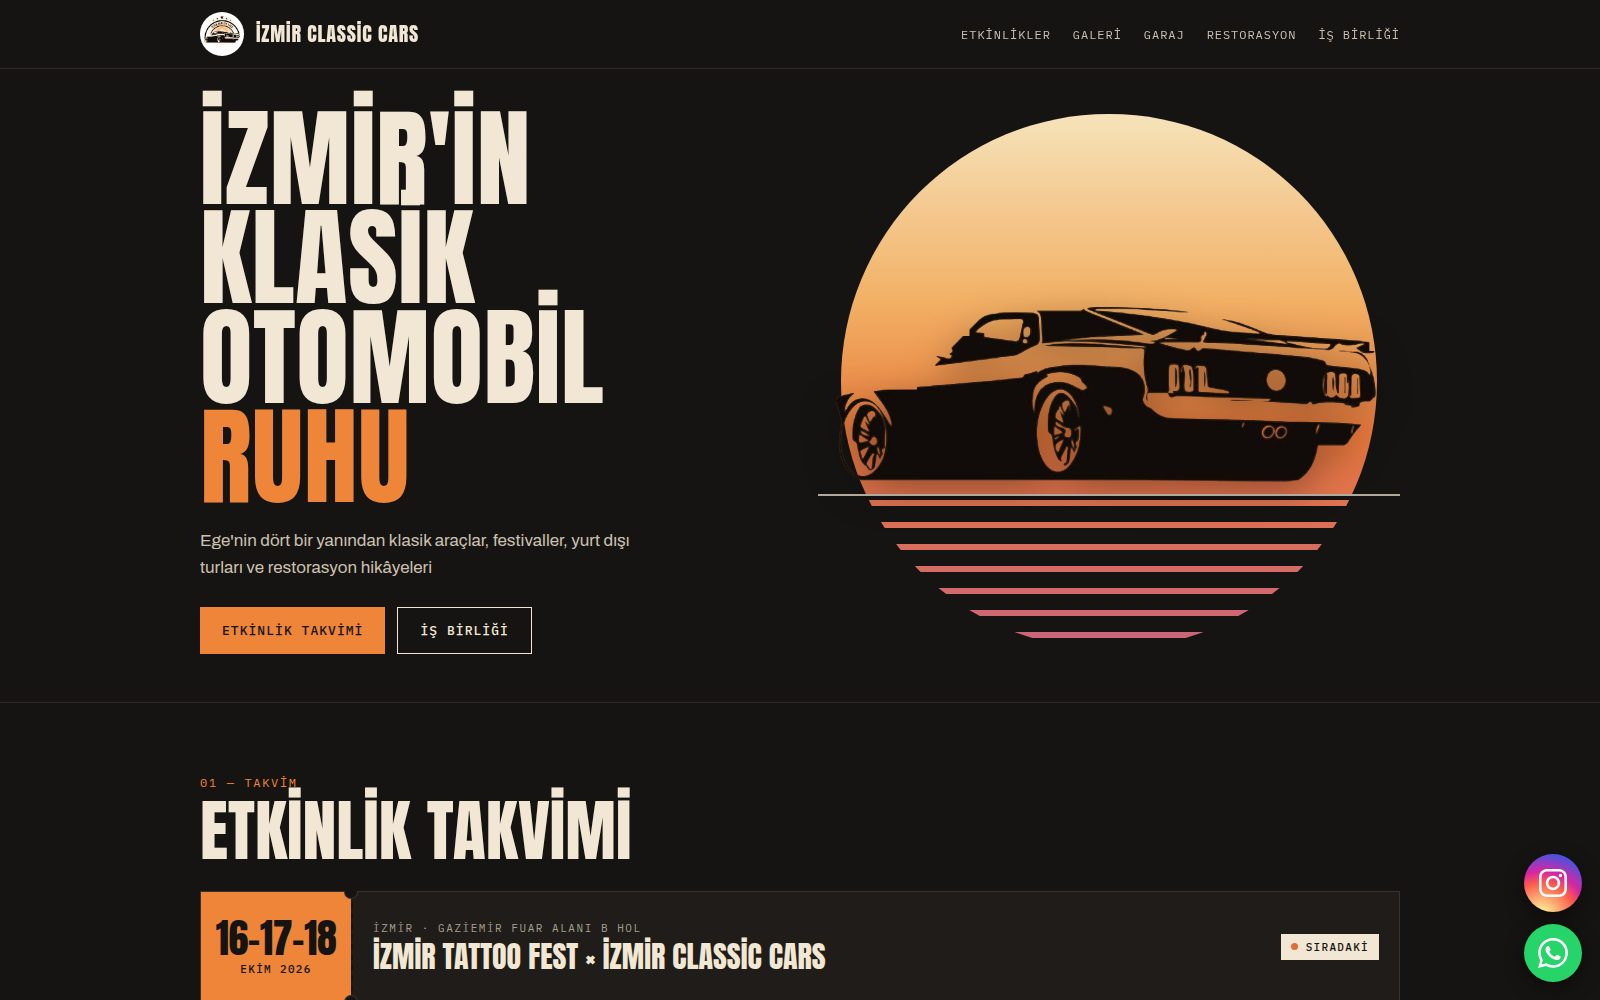
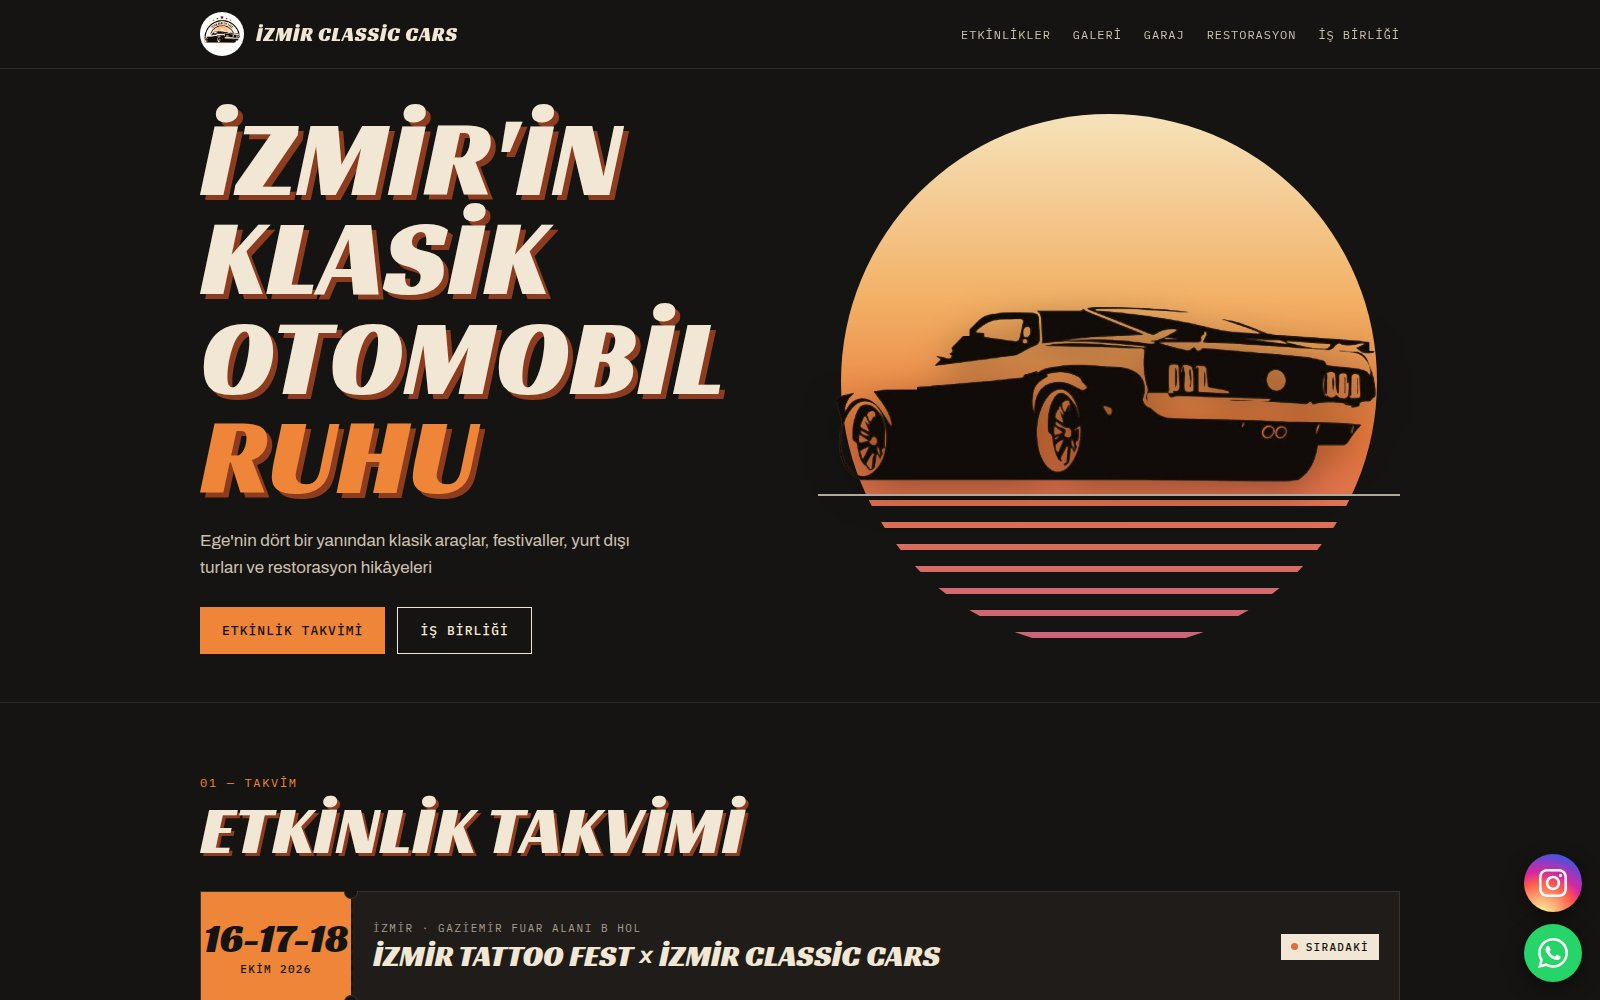
Izmir Classic Cars portfoy gorseli: sitenin yeni yazi tipiyle guncel ekran goruntusu
Claude-Session: https://claude.ai/code/session_01Ss6b9Rjh9ut1ANxu5HAKEx

diff --git a/lib/i18n.ts b/lib/i18n.ts
@@ -198,7 +198,7 @@ export const trSections = {
     featuredUrl: "https://izmirclassiccars.com",
     featuredHost: "izmirclassiccars.com",
     featuredCta: "Siteyi Ziyaret Et",
-    featuredImg: "/work/izmir-classic-cars.webp",
+    featuredImg: "/work/izmir-classic-cars-v2.webp",
     reviewsLabel: "Müşterimiz ne diyor",
     items: [
       { name: "Serpil KURD", role: "CrossFit Bahçeşehir · Salon Sahibi", project: "CrossFit Bahçeşehir", url: "https://crossfitbahcesehir.fit", host: "crossfitbahcesehir.fit", img: "/work/crossfit-bahcesehir.webp", imgW: 1600, imgH: 726, cta: "Siteyi gör", quote: "Aklımızdaki salonu tam olarak ekrana taşıdılar; siteyi ilk açtığımızda 'İşte biz buyuz' dedik. Hızlı, sade ve tam bize benziyor. Çalışmak da gerçekten keyifliydi." },
@@ -334,7 +334,7 @@ export const enSections: typeof trSections = {
     featuredUrl: "https://izmirclassiccars.com",
     featuredHost: "izmirclassiccars.com",
     featuredCta: "Visit the Site",
-    featuredImg: "/work/izmir-classic-cars.webp",
+    featuredImg: "/work/izmir-classic-cars-v2.webp",
     reviewsLabel: "What our client says",
     items: [
       { name: "Serpil KURD", role: "CrossFit Bahçeşehir · Gym Owner", project: "CrossFit Bahçeşehir", url: "https://crossfitbahcesehir.fit", host: "crossfitbahcesehir.fit", img: "/work/crossfit-bahcesehir.webp", imgW: 1600, imgH: 726, cta: "See the site", quote: "They put exactly the gym we had in our heads onto the screen; the first time we opened the site we said 'yes, this is us.' Fast, clean and truly ours — and a real joy to work with." },

diff --git a/lib/work.ts b/lib/work.ts
@@ -43,7 +43,7 @@ export const workPage: Record<Locale, WorkPageDict> = {
       url: "https://izmirclassiccars.com",
       host: "izmirclassiccars.com",
       cta: "Siteyi Ziyaret Et",
-      img: "/work/izmir-classic-cars.webp",
+      img: "/work/izmir-classic-cars-v2.webp",
       imgW: 1600,
       imgH: 1000,
     },
@@ -97,7 +97,7 @@ export const workPage: Record<Locale, WorkPageDict> = {
       url: "https://izmirclassiccars.com",
       host: "izmirclassiccars.com",
       cta: "Visit the Site",
-      img: "/work/izmir-classic-cars.webp",
+      img: "/work/izmir-classic-cars-v2.webp",
       imgW: 1600,
       imgH: 1000,
     },
